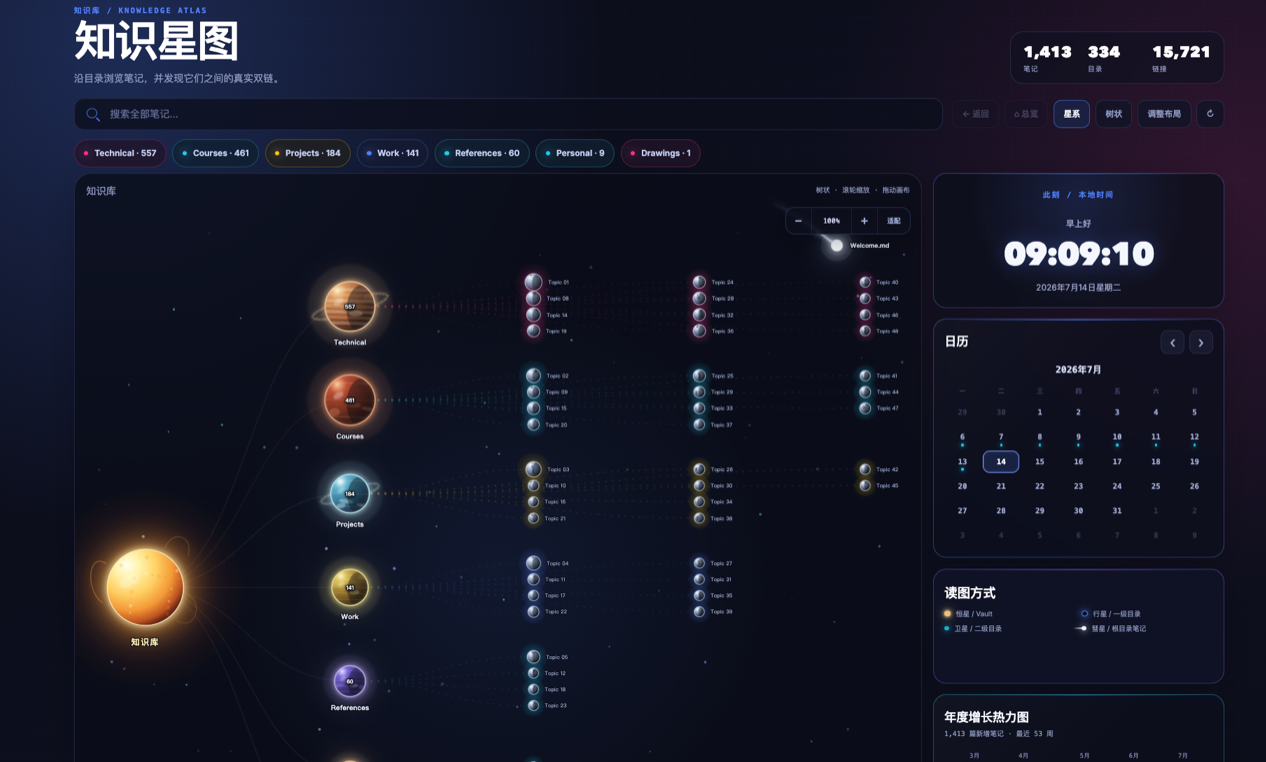
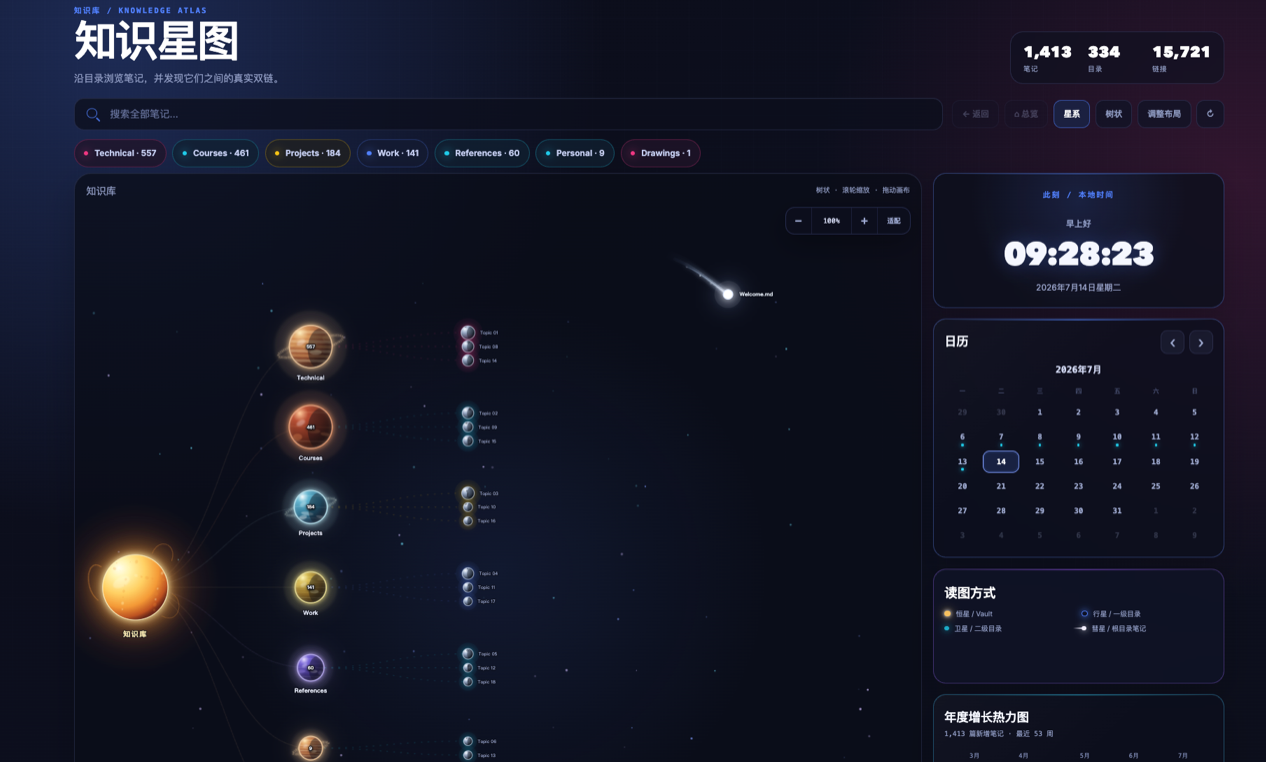
Release Knowledge Atlas 1.11.0

diff --git a/main.js b/main.js
@@ -10,7 +10,7 @@ const {
 const VIEW_TYPE = "knowledge-atlas-view";
 const ROOT_NOTES = "@root-notes";
 const SVG_NS = "http://www.w3.org/2000/svg";
-const GRAPH_WIDTH = 1200;
+const GRAPH_WIDTH = 1400;
 const GRAPH_HEIGHT = 1080;
 const GRAPH_CENTER_X = GRAPH_WIDTH / 2;
 const GRAPH_CENTER_Y = GRAPH_HEIGHT / 2;
@@ -32,6 +32,20 @@ const PLANET_PROFILES = [
   { surface: "#54a777", mid: "#286447", dark: "#09251c", atmosphere: "#7fffd0", texture: "#b8d774", accent: "#eaffc8", pattern: "terra", ring: false },
   { surface: "#d3ba55", mid: "#8e6c27", dark: "#2c1c08", atmosphere: "#fff09a", texture: "#f2d77a", accent: "#fff8c4", pattern: "storm", ring: false }
 ];
+const SOLAR_ORBIT_PROFILES = [
+  { reference: "Mercury", periodDays: 87.97 },
+  { reference: "Venus", periodDays: 224.7 },
+  { reference: "Earth", periodDays: 365.26 },
+  { reference: "Mars", periodDays: 686.98 },
+  { reference: "Jupiter", periodDays: 4332.59 },
+  { reference: "Saturn", periodDays: 10759.22 },
+  { reference: "Uranus", periodDays: 30688.5 },
+  { reference: "Neptune", periodDays: 60182 }
+];
+const OVERVIEW_MOONS_PER_PLANET = 3;
+const GALAXY_INNER_ORBIT = 170;
+const GALAXY_OUTER_ORBIT = 580;
+const GALAXY_MAX_ORBIT_GAP = 76;
 const FREE_LAYOUT_MIN_WIDTH = 1051;
 const DEFAULT_DASHBOARD_LAYOUT = {
   viewportWidth: 1500,
@@ -328,6 +342,19 @@ function planetProfile(path) {
   return PLANET_PROFILES[deterministicScore(`planet-profile:${path}`) % PLANET_PROFILES.length];
 }
 
+function solarOrbitProfile(index) {
+  if (index < SOLAR_ORBIT_PROFILES.length) return SOLAR_ORBIT_PROFILES[index];
+  const last = SOLAR_ORBIT_PROFILES.at(-1);
+  return {
+    reference: `Beyond Neptune ${index - SOLAR_ORBIT_PROFILES.length + 1}`,
+    periodDays: last.periodDays * Math.pow(1.85, index - SOLAR_ORBIT_PROFILES.length + 1)
+  };
+}
+
+function visualOrbitVelocity(periodDays) {
+  return clamp(Math.pow(SOLAR_ORBIT_PROFILES[2].periodDays / periodDays, .42), .055, 1.9);
+}
+
 function renderStarSphere(group, node, radius) {
   const token = `kap-star-${deterministicScore(node.id)}`;
   const auraId = `${token}-aura`;
@@ -442,7 +469,8 @@ function renderPlanetSphere(group, node, radius) {
   surface.style.fill = `url(#${gradientId})`;
   group.appendChild(surface);
 
-  const texture = createSvg("g", { class: `kap-planet-texture is-${profile.pattern}`, "clip-path": `url(#${clipId})` });
+  const textureClip = createSvg("g", { class: "kap-planet-texture-clip", "clip-path": `url(#${clipId})` });
+  const texture = createSvg("g", { class: `kap-planet-texture is-${profile.pattern}` });
   const bandCount = profile.pattern === "gas" ? 7 : profile.pattern === "storm" ? 5 : 3;
   for (let index = 0; index < bandCount; index += 1) {
     const y = (-.68 + index * (1.36 / Math.max(bandCount - 1, 1))) * radius;
@@ -479,7 +507,8 @@ function renderPlanetSphere(group, node, radius) {
     ry: radius * .12,
     fill: profile.accent
   }));
-  group.appendChild(texture);
+  textureClip.appendChild(texture);
+  group.appendChild(textureClip);
   group.appendChild(createSvg("ellipse", {
     class: "kap-planet-night",
     cx: radius * .58,
@@ -520,7 +549,8 @@ function renderMoonSphere(group, node, radius) {
   const surface = createSvg("circle", { class: "kap-core kap-celestial-sphere", r: radius });
   surface.style.fill = `url(#${gradientId})`;
   group.appendChild(surface);
-  const texture = createSvg("g", { class: "kap-moon-texture", "clip-path": `url(#${clipId})` });
+  const textureClip = createSvg("g", { class: "kap-moon-texture-clip", "clip-path": `url(#${clipId})` });
+  const texture = createSvg("g", { class: "kap-moon-texture" });
   for (let index = 0; index < 4; index += 1) {
     const seed = deterministicScore(`${node.path}:crater:${index}`);
     texture.appendChild(createSvg("circle", {
@@ -530,7 +560,8 @@ function renderMoonSphere(group, node, radius) {
       r: radius * (.1 + (seed % 18) / 100)
     }));
   }
-  group.appendChild(texture);
+  textureClip.appendChild(texture);
+  group.appendChild(textureClip);
   group.appendChild(createSvg("ellipse", { class: "kap-moon-night", cx: radius * .62, cy: radius * .08, rx: radius * .78, ry: radius * 1.08, "clip-path": `url(#${clipId})` }));
   group.appendChild(createSvg("circle", { class: "kap-moon-rim", r: radius + .35, fill: "none" }));
 }
@@ -1387,6 +1418,9 @@ class KnowledgeAtlasView extends ItemView {
 
   getGalaxyOverview() {
     const roots = [...this.model.roots].sort((a, b) => b.count - a.count || a.name.localeCompare(b.name));
+    const orbitGap = roots.length > 1
+      ? Math.min(GALAXY_MAX_ORBIT_GAP, (GALAXY_OUTER_ORBIT - GALAXY_INNER_ORBIT) / (roots.length - 1))
+      : 0;
     const center = {
       id: "center",
       type: "star",
@@ -1399,6 +1433,7 @@ class KnowledgeAtlasView extends ItemView {
     const planets = roots.map((folder, index) => {
       const mass = folder.count + folder.children.size * 6;
       const appearance = planetProfile(folder.path);
+      const orbitProfile = solarOrbitProfile(index);
       return {
         id: `folder:${folder.path}`,
         type: "planet",
@@ -1408,20 +1443,26 @@ class KnowledgeAtlasView extends ItemView {
         appearance,
         count: folder.count,
         radius: clamp(14 + Math.sqrt(Math.max(mass, 1)) * .82, 19, 40),
-        orbitRadius: 220 + index * 46,
-        orbitVelocity: 1,
+        orbitRadius: GALAXY_INNER_ORBIT + index * orbitGap,
+        orbitVelocity: visualOrbitVelocity(orbitProfile.periodDays),
+        orbitPeriodDays: orbitProfile.periodDays,
+        orbitReference: orbitProfile.reference,
         baseAngle: -Math.PI / 2 + (index / Math.max(roots.length, 1)) * Math.PI * 2,
         spinVelocity: .75 + (deterministicScore(`spin:${folder.path}`) % 110) / 100,
         detail: `${folder.count} ${this.copy.notes} · ${folder.children.size} ${this.copy.folders}`
       };
     });
-    const childQueues = roots.map(folder => ({
-      parent: folder,
-      children: [...folder.children]
+    const childQueues = roots.map(folder => {
+      const children = [...folder.children]
         .map(path => this.model.folders.get(path))
         .filter(Boolean)
-        .sort((a, b) => b.count - a.count || a.name.localeCompare(b.name))
-    }));
+        .sort((a, b) => b.count - a.count || a.name.localeCompare(b.name));
+      return {
+        parent: folder,
+        totalChildren: children.length,
+        children: children.slice(0, OVERVIEW_MOONS_PER_PLANET)
+      };
+    });
     const selected = [];
     let round = 0;
     while (selected.length < this.plugin.settings.maxFolders) {
@@ -1438,17 +1479,14 @@ class KnowledgeAtlasView extends ItemView {
     const moonCountByParent = new Map();
     for (const { parent } of selected) moonCountByParent.set(parent.path, (moonCountByParent.get(parent.path) || 0) + 1);
     const moonOrderByParent = new Map();
+    const planetByPath = new Map(planets.map(planet => [planet.path, planet]));
     const moons = selected.map(({ folder, parent }) => {
       const mass = folder.count + folder.children.size * 4;
       const orbitSlot = moonOrderByParent.get(parent.path) || 0;
       moonOrderByParent.set(parent.path, orbitSlot + 1);
       const moonCount = moonCountByParent.get(parent.path) || 1;
-      const orbitRing = moonCount > 1 ? orbitSlot % 2 : 0;
-      const orbitIndex = Math.floor(orbitSlot / 2);
-      const orbitCount = moonCount > 1
-        ? orbitRing === 0 ? Math.ceil(moonCount / 2) : Math.floor(moonCount / 2)
-        : 1;
-      const ringOffset = (deterministicScore(`moon-ring:${parent.path}:${orbitRing}`) % 6283) / 1000;
+      const parentPlanet = planetByPath.get(parent.path);
+      const ringOffset = (deterministicScore(`moon-ring:${parent.path}`) % 6283) / 1000;
       return {
         id: `folder:${folder.path}`,
         type: "moon",
@@ -1457,13 +1495,14 @@ class KnowledgeAtlasView extends ItemView {
         parentId: `folder:${parent.path}`,
         color: stableColor(parent.path),
         count: folder.count,
-        radius: clamp(5.5 + Math.sqrt(Math.max(mass, 1)) * .42, 7, 15),
+        radius: clamp(5.5 + Math.sqrt(Math.max(mass, 1)) * .38, 7, 12),
         orbitSlot,
-        orbitRing,
-        orbitIndex,
-        orbitCount,
-        orbitVelocity: orbitRing === 0 ? 1.5 : -1.18,
-        baseAngle: ringOffset + (orbitIndex / Math.max(orbitCount, 1)) * Math.PI * 2,
+        orbitRing: 0,
+        orbitIndex: orbitSlot,
+        orbitCount: moonCount,
+        orbitRadius: (parentPlanet?.radius || 24) + 54,
+        orbitVelocity: 1.28 + (deterministicScore(`moon-orbit:${parent.path}`) % 42) / 100,
+        baseAngle: ringOffset + (orbitSlot / Math.max(moonCount, 1)) * Math.PI * 2,
         spinVelocity: 1.4 + (deterministicScore(`moon-spin:${folder.path}`) % 120) / 100,
         detail: `${folder.count} ${this.copy.notes} · ${folder.children.size} ${this.copy.folders}`
       };
@@ -1476,7 +1515,7 @@ class KnowledgeAtlasView extends ItemView {
       color: "#f4f0ff",
       file: this.model.cometFile,
       radius: 8,
-      orbitRadius: 536,
+      orbitRadius: 650,
       orbitVelocity: 1.62,
       baseAngle: 3.85,
       spinVelocity: 2.4,
@@ -1486,7 +1525,7 @@ class KnowledgeAtlasView extends ItemView {
       ...planets.map(node => ({ source: "center", target: node.id, type: "orbit", color: node.color })),
       ...moons.map(node => ({ source: node.parentId, target: node.id, type: "satellite", color: node.color }))
     ];
-    const availableMoonCount = childQueues.reduce((sum, queue) => sum + queue.children.length, 0);
+    const availableMoonCount = childQueues.reduce((sum, queue) => sum + queue.totalChildren, 0);
     return {
       overview: true,
       nodes: [center, ...planets, ...moons, ...(comet ? [comet] : [])],
@@ -1603,7 +1642,7 @@ class KnowledgeAtlasView extends ItemView {
       const planet = positions.get(moon.parentId);
       const planetNode = planets.find(item => item.id === moon.parentId);
       if (!planet || !planetNode) continue;
-      const localRadius = (planetNode.radius || 24) + 48 + (moon.orbitRing || 0) * 34;
+      const localRadius = moon.orbitRadius || (planetNode.radius || 24) + 54;
       const angle = moon.baseAngle + phase * moon.orbitVelocity;
       const projected = projectOrbit(localRadius, angle, .58, -.28);
       const depth = planet.depth * .72 + projected.depth * .28;
@@ -1707,7 +1746,8 @@ class KnowledgeAtlasView extends ItemView {
     return positions;
   }
 
-  curvePath(source, target) {
+  curvePath(source, target, edgeType = "tree") {
+    if (edgeType === "satellite") return `M ${source.x} ${source.y} L ${target.x} ${target.y}`;
     if (this.currentLayout === "tree") {
       const middle = (source.x + target.x) / 2;
       return `M ${source.x} ${source.y} C ${middle} ${source.y}, ${middle} ${target.y}, ${target.x} ${target.y}`;
@@ -1719,9 +1759,9 @@ class KnowledgeAtlasView extends ItemView {
 
   renderStarfield(parent) {
     const layer = createSvg("g", { class: "kap-starfield", "aria-hidden": "true" });
-    for (let index = 0; index < 88; index += 1) {
-      const x = 22 + (deterministicScore(`star-x:${index}`) % 115600) / 100;
-      const y = 20 + (deterministicScore(`star-y:${index}`) % 104000) / 100;
+    for (let index = 0; index < 96; index += 1) {
+      const x = 22 + (deterministicScore(`star-x:${index}`) % ((GRAPH_WIDTH - 44) * 100)) / 100;
+      const y = 20 + (deterministicScore(`star-y:${index}`) % ((GRAPH_HEIGHT - 40) * 100)) / 100;
       const radius = .45 + (deterministicScore(`star-r:${index}`) % 150) / 100;
       const star = createSvg("circle", { cx: x, cy: y, r: radius, class: `kap-space-star is-${index % 3}` });
       star.style.animationDelay = `${-(index % 17) * .37}s`;
@@ -1736,14 +1776,14 @@ class KnowledgeAtlasView extends ItemView {
     scenery.appendChild(createSvg("ellipse", {
       cx: GRAPH_CENTER_X,
       cy: GRAPH_CENTER_Y,
-      rx: 536,
-      ry: 279,
+      rx: 650,
+      ry: 338,
       transform: `rotate(-9 ${GRAPH_CENTER_X} ${GRAPH_CENTER_Y})`,
       class: "kap-galaxy-disk"
     }));
     for (let index = 0; index < 24; index += 1) {
       const angle = (index / 24) * Math.PI * 2;
-      const point = projectOrbit(536, angle);
+      const point = projectOrbit(650, angle);
       scenery.appendChild(createSvg("line", {
         x1: GRAPH_CENTER_X,
         y1: GRAPH_CENTER_Y,
@@ -1765,30 +1805,27 @@ class KnowledgeAtlasView extends ItemView {
     for (const planet of data.nodes.filter(node => node.type === "planet")) {
       const position = positions.get(planet.id);
       if (!position) continue;
-      const moonCount = data.nodes.filter(node => node.type === "moon" && node.parentId === planet.id).length;
-      if (!moonCount) continue;
-      const rings = moonCount > 1 ? 2 : 1;
+      const planetMoons = data.nodes.filter(node => node.type === "moon" && node.parentId === planet.id);
+      if (!planetMoons.length) continue;
       const elements = [];
-      for (let ring = 0; ring < rings; ring += 1) {
-        const orbitRadius = (planet.radius || 24) + 48 + ring * 34;
-        const ellipse = createSvg("ellipse", {
-          cx: position.x,
-          cy: position.y,
-          rx: orbitRadius,
-          ry: orbitRadius * .58,
-          transform: `rotate(-16 ${position.x} ${position.y})`,
-          class: "kap-moon-orbit"
-        });
-        scenery.appendChild(ellipse);
-        elements.push(ellipse);
-      }
+      const orbitRadius = planetMoons[0].orbitRadius || (planet.radius || 24) + 54;
+      const ellipse = createSvg("ellipse", {
+        cx: position.x,
+        cy: position.y,
+        rx: orbitRadius,
+        ry: orbitRadius * .58,
+        transform: `rotate(-16 ${position.x} ${position.y})`,
+        class: "kap-moon-orbit"
+      });
+      scenery.appendChild(ellipse);
+      elements.push(ellipse);
       this.moonOrbitElements.set(planet.id, elements);
     }
     scenery.appendChild(createSvg("ellipse", {
       cx: GRAPH_CENTER_X,
       cy: GRAPH_CENTER_Y,
-      rx: 536,
-      ry: 289,
+      rx: 650,
+      ry: 351,
       transform: `rotate(-9 ${GRAPH_CENTER_X} ${GRAPH_CENTER_Y})`,
       class: "kap-comet-orbit"
     }));
@@ -1828,7 +1865,7 @@ class KnowledgeAtlasView extends ItemView {
       const target = positions.get(edge.target);
       if (!source || !target) continue;
       const path = createSvg("path", {
-        d: this.curvePath(source, target),
+        d: this.curvePath(source, target, edge.type),
         fill: "none",
         class: `kap-edge is-${edge.type}${edge.type === "cross" ? " is-cross" : ""}`,
         "data-source": edge.source,
@@ -2067,7 +2104,7 @@ class KnowledgeAtlasView extends ItemView {
       for (const { edge, path } of edgeElements) {
         const source = positions.get(edge.source);
         const target = positions.get(edge.target);
-        if (source && target) path.setAttribute("d", this.curvePath(source, target));
+        if (source && target) path.setAttribute("d", this.curvePath(source, target, edge.type));
       }
       for (const [planetId, ellipses] of this.moonOrbitElements || []) {
         const position = positions.get(planetId);
@@ -2109,7 +2146,7 @@ class KnowledgeAtlasView extends ItemView {
       }
       const elapsed = Math.min(.05, Math.max(0, (timestamp - this.motionLastTime) / 1000));
       this.motionLastTime = timestamp;
-      this.orbitPhase = (this.orbitPhase + elapsed * .22 * Number(this.plugin.settings.orbitSpeed || 1)) % (Math.PI * 2);
+      this.orbitPhase += elapsed * .22 * Number(this.plugin.settings.orbitSpeed || 1);
       this.updateGalaxyMotion(timestamp);
       this.motionFrame = window.requestAnimationFrame(tick);
     };

diff --git a/styles.css b/styles.css
@@ -710,7 +710,9 @@
   filter: drop-shadow(0 0 3px color-mix(in srgb, var(--kap-node-color) 72%, transparent));
 }
 
+.kap-planet-texture-clip,
 .kap-planet-texture,
+.kap-moon-texture-clip,
 .kap-moon-texture,
 .kap-planet-night,
 .kap-moon-night,

diff --git a/README.md b/README.md
@@ -4,7 +4,7 @@
 
 **Turn your Obsidian vault into a living, interactive knowledge galaxy.**
 
-[![Version](https://img.shields.io/badge/version-1.10.0-8b5cf6?style=flat-square)](releases/knowledge-atlas-1.10.0.zip)
+[![Version](https://img.shields.io/badge/version-1.11.0-8b5cf6?style=flat-square)](releases/knowledge-atlas-1.11.0.zip)
 [![Obsidian](https://img.shields.io/badge/Obsidian-1.5.0%2B-7c3aed?style=flat-square&logo=obsidian)](https://obsidian.md/)
 [![License](https://img.shields.io/badge/license-MIT-22c55e?style=flat-square)](LICENSE)
 [![Local only](https://img.shields.io/badge/data-local%20only-06b6d4?style=flat-square)](#privacy)
@@ -34,8 +34,9 @@ The screenshots use anonymized labels. Knowledge Atlas never changes note names 
 | Area | What it provides |
 |---|---|
 | Galaxy navigation | The vault is a star, top-level folders are planets, and second-level folders are moons. Node size reflects the amount of knowledge below it. |
-| Celestial motion | Smooth revolution and self-rotation, adjustable speed, hover-to-pause inspection, perspective orbits, atmospheric shading, rings, and a soft solar corona. |
+| Celestial motion | Mercury-to-Neptune period references with perceptual time compression, smooth revolution and self-rotation, adjustable speed, hover-to-pause inspection, atmospheric shading, rings, and a soft solar corona. |
 | Root-note comet | One root-level Markdown note becomes a comet. The selection is stable during the day and can rotate on another day; no special filename is required. |
+| Focused satellites | The overview shows at most three representative second-level folders per planet on one readable moon track; drill down to see the rest. |
 | Tree and drill-down views | Switch to a readable hierarchy, enter folders, inspect note nodes, and follow real links resolved by Obsidian. |
 | Search and recency | Search the full vault, open notes directly, and browse recently updated notes. |
 | Activity insights | A conventional 53-week heatmap, 12-month growth trajectory, weekday rhythm, local clock, and activity-aware calendar. |
@@ -60,7 +61,7 @@ The overview intentionally stops at the second folder level so a large vault rem
 
 ### Install the packaged version
 
-1. Download [`knowledge-atlas-1.10.0.zip`](releases/knowledge-atlas-1.10.0.zip).
+1. Download [`knowledge-atlas-1.11.0.zip`](releases/knowledge-atlas-1.11.0.zip).
 2. Extract it. The archive contains a folder named `knowledge-atlas`.
 3. Copy that folder into your vault:
 

diff --git a/README.zh-CN.md b/README.zh-CN.md
@@ -4,7 +4,7 @@
 
 **把 Obsidian Vault 变成一座可探索、会运转的知识星系。**
 
-[![Version](https://img.shields.io/badge/version-1.10.0-8b5cf6?style=flat-square)](releases/knowledge-atlas-1.10.0.zip)
+[![Version](https://img.shields.io/badge/version-1.11.0-8b5cf6?style=flat-square)](releases/knowledge-atlas-1.11.0.zip)
 [![Obsidian](https://img.shields.io/badge/Obsidian-1.5.0%2B-7c3aed?style=flat-square&logo=obsidian)](https://obsidian.md/)
 [![License](https://img.shields.io/badge/license-MIT-22c55e?style=flat-square)](LICENSE)
 [![Local only](https://img.shields.io/badge/data-local%20only-06b6d4?style=flat-square)](#隐私)
@@ -34,8 +34,9 @@ Knowledge Atlas 是一款面向 [Obsidian](https://obsidian.md/) 的可视化导
 | 模块 | 功能 |
 |---|---|
 | 星系导航 | Vault 是恒星，一级目录是行星，二级目录是卫星；节点体积会反映其下方的知识数量。 |
-| 天体动画 | 流畅公转和自转、速率调节、悬停暂停、透视轨道、球面明暗、大气层、星环和自然日冕。 |
+| 天体动画 | 参考水星至海王星的真实周期并进行视觉时间压缩，支持流畅公转和自转、速率调节、悬停暂停、球面明暗、大气层、星环和自然日冕。 |
 | 根目录彗星 | 每天稳定随机选择一篇根目录 Markdown 笔记作为彗星，不依赖任何固定文件名。 |
+| 精简卫星 | 总览中每颗行星最多显示 3 个代表性二级目录，并合并为一条清晰的卫星轨道；其余目录可下钻查看。 |
 | 树状与下钻 | 切换为清晰的层级树，进入目录、查看笔记节点，并展示 Obsidian 解析出的真实双链。 |
 | 搜索与最近更新 | 全 Vault 搜索、直接打开笔记，以及浏览最近修改的笔记。 |
 | 活跃度洞察 | 53 周热力图、12 个月增长轨迹、星期节奏、本地时钟和带活跃标记的日历。 |
@@ -60,7 +61,7 @@ Vault                         → 恒星
 
 ### 安装打包版本
 
-1. 下载 [`knowledge-atlas-1.10.0.zip`](releases/knowledge-atlas-1.10.0.zip)。
+1. 下载 [`knowledge-atlas-1.11.0.zip`](releases/knowledge-atlas-1.11.0.zip)。
 2. 解压后会得到 `knowledge-atlas` 文件夹。
 3. 将该文件夹复制到 Vault：
 